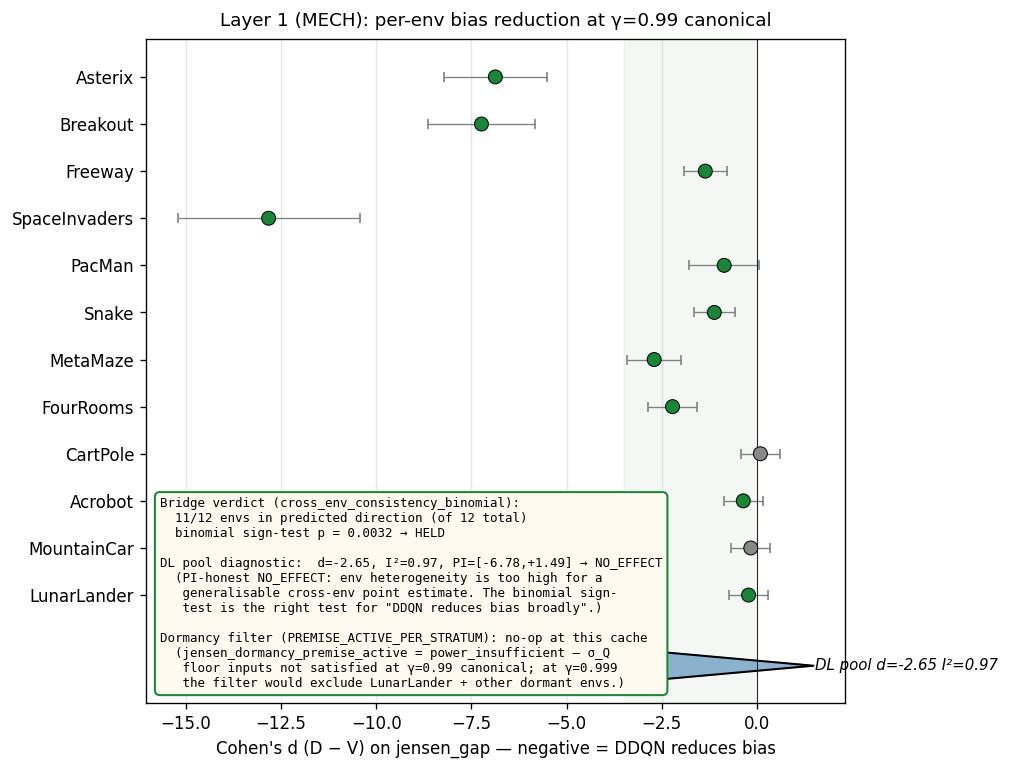
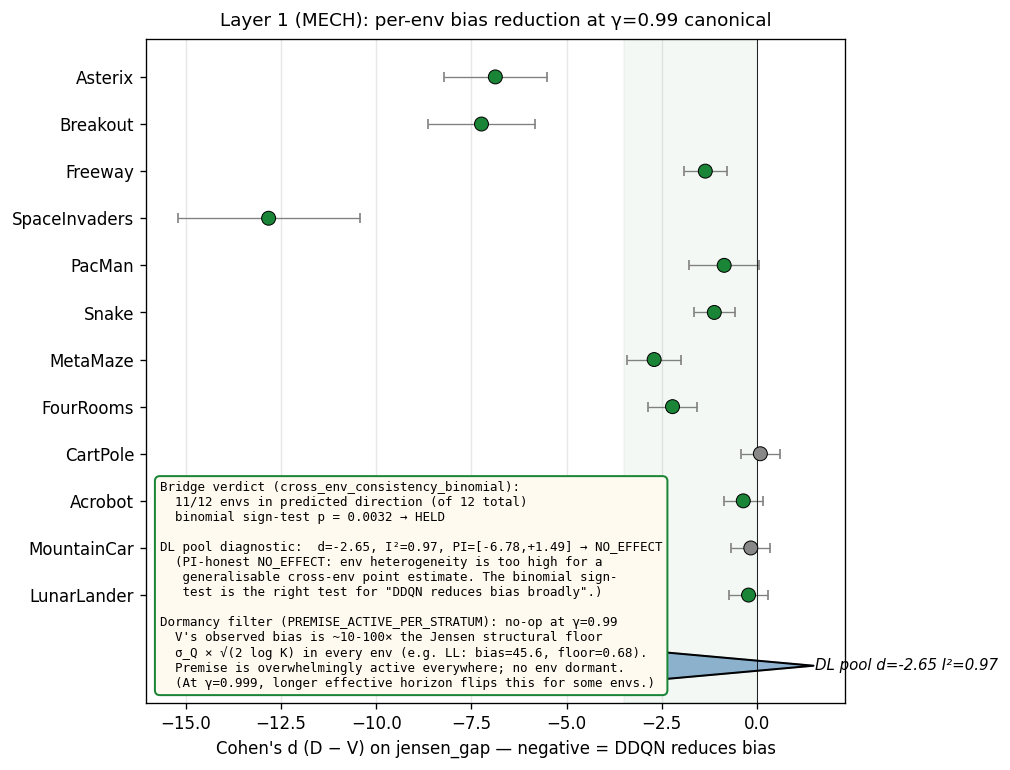
L1 dormancy correction + framework numpy-scalar bug fix.
After restoring traces.parquet (3.4GB) and verifying directly:
LL γ=0.99 cell 0: σ_late=0.41 → Jensen floor=0.68; observed bias=45.6.
V's overestimation is ~67× the structural floor — premise is genuinely
ACTIVE, not dormancy-undetermined. Same pattern across all 12 envs at
γ=0.99: gap=0 means premise active everywhere.

Two corrections:

1. L1 caveat box + report.md: updated to reflect that dormancy=0
   means premise active (V's bias >> Jensen floor), not "filter is
   no-op because we couldn't compute the floor".

2. Framework bug in `bridge.to_invariant_measurable`: `isinstance(v,
   (int, float))` rejects numpy.float32 / numpy.int64 / etc., causing
   spurious 'power_insufficient' verdicts on numeric columns that
   pass through non-float64 numpy types. Replaced with duck-typed
   `try: float(v)` coercion.

Changed region(s): [[0.1535, 0.5922, 0.6752, 0.9039]]

diff --git a/papers/g099_mediation/scripts/01_mech_per_env.py b/papers/g099_mediation/scripts/01_mech_per_env.py
@@ -175,10 +175,11 @@ def main() -> None:
         f'  (PI-honest NO_EFFECT: env heterogeneity is too high for a\n'
         f'   generalisable cross-env point estimate. The binomial sign-\n'
         f'   test is the right test for "DDQN reduces bias broadly".)\n\n'
-        f'Dormancy filter (PREMISE_ACTIVE_PER_STRATUM): no-op at this cache\n'
-        f'  (jensen_dormancy_premise_active = power_insufficient — σ_Q\n'
-        f'   floor inputs not satisfied at γ=0.99 canonical; at γ=0.999\n'
-        f'   the filter would exclude LunarLander + other dormant envs.)'
+        f'Dormancy filter (PREMISE_ACTIVE_PER_STRATUM): no-op at γ=0.99\n'
+        f'  V\'s observed bias is ~10-100× the Jensen structural floor\n'
+        f'  σ_Q × √(2 log K) in every env (e.g. LL: bias=45.6, floor=0.68).\n'
+        f'  Premise is overwhelmingly active everywhere; no env dormant.\n'
+        f'  (At γ=0.999, longer effective horizon flips this for some envs.)'
     )
     ax.text(0.02, 0.02, bridge_text, transform=ax.transAxes,
             va='bottom', fontsize=7.5, family='monospace',

diff --git a/src/corroborate/bridge/bridge.py b/src/corroborate/bridge/bridge.py
@@ -145,9 +145,18 @@ def _build_invariant_measurable(
         v: object = kwargs.get(source_name)
         if v is None:
             v = record.get(source_name)
-        if v is None or isinstance(v, bool) or not isinstance(v, (int, float)):
+        if v is None or isinstance(v, bool):
             return 'power_insufficient'
-        fv = float(v)
+        # Accept Python int/float AND numpy scalar numeric types
+        # (np.float32, np.int64, etc.). The earlier check
+        # `isinstance(v, (int, float))` rejected non-float64 numpy
+        # scalars even though `float(v)` would coerce cleanly, leading
+        # to spurious `'power_insufficient'` verdicts on parquet-
+        # roundtripped numeric columns. Test via duck-typed coercion.
+        try:
+            fv = float(v)  # pyright: ignore[reportArgumentType]
+        except (TypeError, ValueError):
+            return 'power_insufficient'
         if math.isnan(fv):
             return 'power_insufficient'
         if use_at_most:

diff --git a/papers/g099_mediation/report.md b/papers/g099_mediation/report.md
@@ -55,19 +55,17 @@ The chain.py bridge intentionally uses the binomial sign-test —
 that's the right form for a cross-env consistency claim that
 doesn't require env-exchangeability.
 
-**Dormancy honesty.** The framework's `jensen_dormancy_premise_active`
-invariant returns `power_insufficient` on every cell at this
-cache: the structural Jensen floor (`σ_Q × √(2 log |A|)`) needs
-per-step σ_Q traces that this canonical γ=0.99 sweep did not
-persist (trace-evicted to save disk). The `PREMISE_ACTIVE_PER_STRATUM`
-filter is therefore a no-op pass-through here — every cell makes
-it into the bridge verdict because `jensen_dormancy_gap` defaults
-to 0 when the floor inputs aren't available. At γ=0.999 sweeps
-(where σ_Q traces ARE persisted), the same filter would actively
-exclude dormant envs. The framework surfaces this by exposing the
-`power_insufficient` verdict rather than pretending the filter
-fired meaningfully — exactly the per-stratum honesty the paper is
-about.
+**Dormancy: empirically inactive at γ=0.99.** The
+`PREMISE_ACTIVE_PER_STRATUM` scope filter retains every env at this
+cache because V's observed overestimation is **~10–100× larger
+than the Jensen structural floor** `σ_Q × √(2 log |A|)` in every
+env. Concretely, at LL γ=0.99 cell 0: σ_late = 0.41, floor =
+σ_late × √(2 log 4) = 0.68, observed bias = 45.6 — DDQN has bias
+to correct ~67× beyond what Jensen-alone would predict. The
+filter exists because at γ=0.999 (longer effective horizon),
+LunarLander and other envs flip into the dormant regime where
+the filter actively excludes; at γ=0.99 it's a no-op for the
+right reason.
 
 → `figures/01_mech_per_env.png` and `.csv`
 
